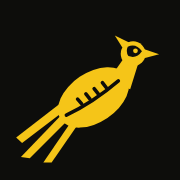
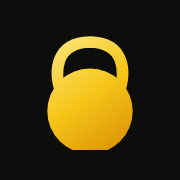
Add files via upload

Changed region(s): [[0.0833, 0.1944, 0.8889, 0.9167]]

diff --git a/index.html b/index.html
@@ -9,11 +9,13 @@
   <meta name="color-scheme" content="dark">
   <meta name="format-detection" content="telephone=no">
 
-  <!-- Beginscherm / app-modus -->
-  <link rel="manifest" href="manifest.webmanifest">
-  <link rel="icon" type="image/svg+xml" href="icons/logo.svg">
-  <link rel="icon" type="image/png" sizes="192x192" href="icons/icon-192.png">
-  <link rel="apple-touch-icon" href="icons/apple-touch-icon.png">
+  <!-- Beginscherm / app-modus.
+       ?v=6 achter elk bestand dwingt browsers de nieuwste versie te laden.
+       Verhoog dit getal (overal tegelijk) als je iets wijzigt. -->
+  <link rel="manifest" href="manifest.webmanifest?v=6">
+  <link rel="icon" type="image/svg+xml" href="icons/logo.svg?v=6">
+  <link rel="icon" type="image/png" sizes="192x192" href="icons/icon-192.png?v=6">
+  <link rel="apple-touch-icon" href="icons/apple-touch-icon.png?v=6">
   <meta name="apple-mobile-web-app-capable" content="yes">
   <meta name="mobile-web-app-capable" content="yes">
   <meta name="apple-mobile-web-app-status-bar-style" content="black">
@@ -24,14 +26,30 @@
   <link rel="preconnect" href="https://fonts.gstatic.com" crossorigin>
   <link rel="stylesheet" href="https://fonts.googleapis.com/css2?family=Big+Shoulders+Display:wght@700;900&family=Barlow+Semi+Condensed:wght@400;500;600;700&family=JetBrains+Mono:wght@500;700&display=swap">
 
-  <link rel="stylesheet" href="style.css">
+  <link rel="stylesheet" href="style.css?v=6">
 </head>
 <body>
+  <!-- Logo: kettlebell met gele gradient (staat direct in de pagina, dus altijd zichtbaar) -->
+  <svg class="defs" aria-hidden="true" focusable="false">
+    <defs>
+      <linearGradient id="kb-grad" x1="140" y1="90" x2="380" y2="446" gradientUnits="userSpaceOnUse">
+        <stop offset="0" stop-color="#ffe680"/>
+        <stop offset=".5" stop-color="#f5c518"/>
+        <stop offset="1" stop-color="#d98e04"/>
+      </linearGradient>
+      <clipPath id="kb-base"><rect x="0" y="0" width="512" height="440"/></clipPath>
+      <symbol id="kettlebell" viewBox="0 0 512 512">
+        <path d="M168 268 C142 196 150 108 256 106 C362 108 370 196 344 268" fill="none" stroke="url(#kb-grad)" stroke-width="36" stroke-linecap="round"/>
+        <circle cx="256" cy="320" r="132" fill="url(#kb-grad)" clip-path="url(#kb-base)"/>
+      </symbol>
+    </defs>
+  </svg>
+
   <div class="hoops" aria-hidden="true"></div>
 
   <header class="wrap top">
     <div class="titlerow">
-      <img class="mark" src="icons/logo.svg" alt="" width="52" height="52">
+      <svg class="mark" viewBox="0 0 512 512" aria-hidden="true"><use href="#kettlebell"/></svg>
       <h1 data-i18n="title">Trainingsweek</h1>
     </div>
     <div class="navrow">
@@ -73,17 +91,17 @@
 
   <!-- Schermvullende flits als de rust voorbij is -->
   <div class="flash" id="flash" role="alert" hidden>
-    <img src="icons/logo.svg" alt="" width="120" height="120">
+    <svg class="flash-mark" viewBox="0 0 512 512" aria-hidden="true"><use href="#kettlebell"/></svg>
     <strong>GO</strong>
     <span id="flashText"></span>
   </div>
 
   <noscript><p class="wrap">Zet JavaScript aan om het schema te zien. / Turn on JavaScript to see the programme.</p></noscript>
 
-  <script src="i18n.js"></script>
-  <script src="data.js"></script>
-  <script src="store.js"></script>
-  <script src="stats.js"></script>
-  <script src="app.js"></script>
+  <script src="i18n.js?v=6"></script>
+  <script src="data.js?v=6"></script>
+  <script src="store.js?v=6"></script>
+  <script src="stats.js?v=6"></script>
+  <script src="app.js?v=6"></script>
 </body>
 </html>

diff --git a/sw.js b/sw.js
@@ -2,25 +2,25 @@
    Eigen bestanden: eerst netwerk (zodat updates direct zichtbaar zijn), anders uit cache.
    Lettertypes van Google: uit cache, anders netwerk.
    Verhoog VERSION als je bestanden wijzigt. */
-const VERSION = "v5";
+const VERSION = "v6";
 const CACHE = "casrc-training-" + VERSION;
 const FONT_CACHE = "casrc-training-fonts";
 
 const ASSETS = [
   "./",
   "./index.html",
-  "./style.css",
-  "./i18n.js",
-  "./data.js",
-  "./store.js",
-  "./stats.js",
-  "./app.js",
-  "./manifest.webmanifest",
-  "./icons/logo.svg",
-  "./icons/icon-192.png",
-  "./icons/icon-512.png",
-  "./icons/icon-512-maskable.png",
-  "./icons/apple-touch-icon.png"
+  "./style.css?v=6",
+  "./i18n.js?v=6",
+  "./data.js?v=6",
+  "./store.js?v=6",
+  "./stats.js?v=6",
+  "./app.js?v=6",
+  "./manifest.webmanifest?v=6",
+  "./icons/logo.svg?v=6",
+  "./icons/icon-192.png?v=6",
+  "./icons/icon-512.png?v=6",
+  "./icons/icon-512-maskable.png?v=6",
+  "./icons/apple-touch-icon.png?v=6"
 ];
 
 self.addEventListener("install", (e) => {

diff --git a/style.css b/style.css
@@ -83,7 +83,8 @@ button { cursor: pointer; touch-action: manipulation; }
 .navrow .lang button { min-height: 44px; }
 .navrow .lang button + button { border-left-color: var(--chalk); }
 .navrow .lang button:not([aria-pressed="true"]) { color: var(--chalk); }
-.mark { flex: none; width: clamp(40px, 12vw, 56px); height: auto; margin-top: -4px; }
+.mark { flex: none; width: clamp(40px, 12vw, 56px); height: clamp(40px, 12vw, 56px); margin-top: -4px; }
+.defs { position: absolute; width: 0; height: 0; overflow: hidden; }
 
 /* ---------- Flits als de rust voorbij is ---------- */
 .flash {
@@ -100,7 +101,7 @@ button { cursor: pointer; touch-action: manipulation; }
   text-align: center;
   cursor: pointer;
 }
-.flash img { width: 120px; height: auto; background: var(--pitch); padding: 10px; }
+.flash-mark { width: 120px; height: 120px; background: var(--pitch); padding: 10px; }
 .flash strong {
   font-family: var(--display);
   font-weight: 900;

diff --git a/app.js b/app.js
@@ -391,7 +391,7 @@
   readHash();
   showView();
 
-  if ("serviceWorker" in navigator && location.protocol === "https:") {
+  if ("serviceWorker" in navigator && (location.protocol === "https:" || location.hostname === "localhost")) {
     window.addEventListener("load", () => { navigator.serviceWorker.register("sw.js").catch(() => {}); });
   }
 })();

diff --git a/README.md b/README.md
@@ -27,11 +27,23 @@ en een Stats-pagina met je progressie.
 ## Online zetten met GitHub Pages
 
 1. Maak op github.com een nieuwe repository, bijvoorbeeld `casrc-training` (Public).
-2. Klik **Add file → Upload files** en sleep alle bestanden **én** de map `icons` erin. Klik **Commit changes**.
-3. Ga naar **Settings → Pages**. Kies bij *Source* **Deploy from a branch**, branch **main**, map **/ (root)**, en klik **Save**.
-4. Na 1 à 2 minuten staat de app op `https://<jouw-gebruikersnaam>.github.io/casrc-training/`.
+2. Pak de zip uit en **open de map** `casrc-training`.
+3. Selecteer **alles wat erin staat** (ook de map `icons`) en sleep dat in GitHub via **Add file → Upload files**. Klik **Commit changes**.
+   Sleep dus niet de map `casrc-training` zelf, anders komt alles in een submap en ziet de site het niet.
+4. Ga naar **Settings → Pages**. Kies bij *Source* **Deploy from a branch**, branch **main**, map **/ (root)**, en klik **Save**.
+5. Na 1 à 2 minuten staat de app op `https://<jouw-gebruikersnaam>.github.io/casrc-training/`.
 
-Update je een bestaande versie? Upload de nieuwe bestanden over de oude heen.
+In de repository moet het er zo uitzien (index.html in de hoofdmap):
+
+```
+index.html   style.css   app.js   data.js   i18n.js   store.js   stats.js
+sw.js   manifest.webmanifest   README.md
+icons/  (logo.svg, icon-192.png, icon-512.png, icon-512-maskable.png, apple-touch-icon.png)
+```
+
+**Updaten:** sleep alles opnieuw op dezelfde manier; GitHub overschrijft de oude bestanden.
+Zie je de nieuwe versie niet meteen? GitHub Pages heeft tot ~10 minuten nodig. Sluit de app daarna helemaal af en open hem opnieuw.
+Het icoon op je beginscherm ververst pas als je de app verwijdert en opnieuw toevoegt.
 
 ## Op het beginscherm zetten
 
@@ -70,7 +82,11 @@ Na één keer openen met internet werkt alles ook zonder bereik, behalve de "Uit
 ## Nieuw schema?
 
 Pas `data.js` aan. Houd de **namen** van oefeningen gelijk als je hun geschiedenis wilt behouden.
-Verhoog daarna in `sw.js` de regel `const VERSION = "v4";` (naar `"v5"` enz.) zodat telefoons de nieuwe versie ophalen.
+Verhoog daarna het versienummer, zodat telefoons de nieuwe versie ophalen:
+- in `sw.js`: `const VERSION = "v6";` en de `?v=6` achter de bestanden,
+- in `index.html` en `manifest.webmanifest`: elke `?v=6`.
+
+Tip: zoek-en-vervang `v=6` door `v=7` in die drie bestanden en zet `VERSION` op `"v7"`.
 
 ## Lokaal testen
 
